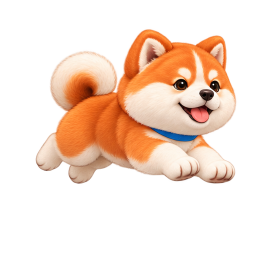
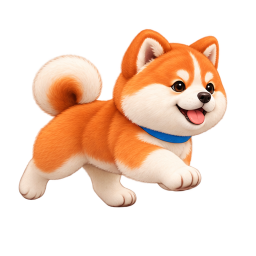
fix: remove near-static Akita running pose

Changed region(s): [[0.0625, 0.0938, 0.9375, 0.8125]]

diff --git a/tools/audit_animation.py b/tools/audit_animation.py
@@ -36,6 +36,11 @@ CHEST_SOURCE_BOX = (45, 120, 165, 220)
 MIN_TAIL_CHANGED_PIXELS = 500
 MIN_TAIL_CENTROID_DELTA_DP = 1.0
 MIN_TAIL_EDGE_SWEEP_DP = 1.5
+HIND_LEG_SOURCE_BOXES = {
+    "hind_leg_back": (12, 180, 90, 245),
+    "hind_leg_forward": (90, 180, 158, 245),
+}
+MIN_HIND_LEG_SILHOUETTE_CHANGE = 0.015
 CHANGE_THRESHOLD = 12
 
 _FONT = {
@@ -231,6 +236,46 @@ def _tail_metrics(state: str, frames: tuple[RenderedFrame, ...], size: int,
     }
 
 
+def _hind_leg_metrics(state: str, frames: tuple[RenderedFrame, ...],
+                      size: int) -> dict[str, object] | None:
+    """Check that both lower hind-leg silhouettes visibly change on each beat."""
+    if state != "running" or len(frames) < AKITA_FRAME_COUNTS["running"]:
+        return None
+
+    cycle = frames[:AKITA_FRAME_COUNTS["running"]]
+    legs: dict[str, object] = {}
+    for name, source_box in HIND_LEG_SOURCE_BOXES.items():
+        x0, y0, x1, y1 = _scaled_box(source_box, size)
+        region_pixels = (x1 - x0) * (y1 - y0)
+        transitions = []
+        for before, after in zip(cycle, (*cycle[1:], cycle[0])):
+            changed = 0
+            for y in range(y0, y1):
+                for x in range(x0, x1):
+                    offset = (y * size + x) * 4 + 3
+                    changed += (before.rgba[offset] > 128) != (after.rgba[offset] > 128)
+            transitions.append({
+                "from_frame": before.frame,
+                "to_frame": after.frame,
+                "changed_silhouette_pixels": changed,
+                "region_pixels": region_pixels,
+                "change_fraction": round(changed / region_pixels, 4),
+            })
+
+        slowest = min(transitions, key=lambda item: item["change_fraction"])
+        legs[name] = {
+            "minimum_change_fraction": MIN_HIND_LEG_SILHOUETTE_CHANGE,
+            "slowest_transition": slowest,
+            "passed": slowest["change_fraction"] >= MIN_HIND_LEG_SILHOUETTE_CHANGE,
+        }
+
+    return {
+        "measurement": "binary alpha silhouette change per lower hind-leg region",
+        "passed": all(leg["passed"] for leg in legs.values()),
+        "legs": legs,
+    }
+
+
 def _draw_text(canvas: bytearray, width: int, x: int, y: int, label: str) -> None:
     scale = 2
     color = (222, 228, 236, 255)
@@ -328,6 +373,7 @@ def render_audit(state: str, cycles: int = 1,
 
     frames = tuple(rendered)
     tail_metrics = _tail_metrics(state, frames, display_size, density)
+    hind_leg_metrics = _hind_leg_metrics(state, frames, display_size)
     report: dict[str, object] = {
         "renderer": "rgba_icon with premultiplied bilinear downsampling",
         "state": state,
@@ -347,6 +393,7 @@ def render_audit(state: str, cycles: int = 1,
         ],
         "transitions": transitions,
         "tail_motion": tail_metrics,
+        "hind_leg_motion": hind_leg_metrics,
         "contact_sheet": "contact-sheet.png",
     }
     return RenderAudit(report, frames, _contact_sheet(frames, display_size))
@@ -392,6 +439,7 @@ def main() -> int:
     result = render_audit(args.state, args.cycles, args.density)
     manifest = write_audit(result, args.output)
     tail = result.report["tail_motion"]
+    hind_legs = result.report["hind_leg_motion"]
     if isinstance(tail, dict):
         print(
             f"Tail motion at {result.report['display_size_px']}px: "
@@ -401,9 +449,21 @@ def main() -> int:
             f"chest changes {tail['chest_changed_pixels_at_display_size']} pixels; "
             f"{'PASS' if tail['passed'] else 'FAIL'}"
         )
+    if isinstance(hind_legs, dict):
+        legs = hind_legs["legs"]
+        summary = ", ".join(
+            f"{name} {leg['slowest_transition']['change_fraction']:.1%}"
+            for name, leg in legs.items()
+        )
+        print(
+            f"Hind-leg silhouette at {result.report['display_size_px']}px: "
+            f"{summary}; minimum {MIN_HIND_LEG_SILHOUETTE_CHANGE:.1%}; "
+            f"{'PASS' if hind_legs['passed'] else 'FAIL'}"
+        )
     print(f"Rendered {result.report['frame_count']} frames over "
           f"{result.report['duration_seconds']}s to {manifest.parent}")
-    if isinstance(tail, dict) and not tail["passed"]:
+    if ((isinstance(tail, dict) and not tail["passed"])
+            or (isinstance(hind_legs, dict) and not hind_legs["passed"])):
         return 1
     return 0
 

diff --git a/tests/test_animation_audit.py b/tests/test_animation_audit.py
@@ -54,6 +54,20 @@ class AnimationAuditTests(unittest.TestCase):
         self.assertIsInstance(tail, dict)
         self.assertTrue(tail["passed"])
 
+    def test_running_keeps_both_hind_leg_silhouettes_moving_each_beat(self) -> None:
+        result = render_audit("running", cycles=2, density=3)
+        hind_legs = result.report["hind_leg_motion"]
+        preview = _timeline("running", cycles=2)
+
+        self.assertIsInstance(hind_legs, dict)
+        self.assertTrue(hind_legs["passed"], hind_legs)
+        self.assertEqual(result.report["frame_count"], 10)
+        self.assertEqual(result.report["duration_seconds"], 1.0)
+        self.assertEqual(
+            [frame.frame for frame in result.frames],
+            [frame["frame"] for frame in preview],
+        )
+
     def test_audit_writes_a_contact_sheet_and_frame_manifest(self) -> None:
         result = render_audit("idle", cycles=1, density=3)
         with tempfile.TemporaryDirectory() as directory:

diff --git a/codex_pet/art.py b/codex_pet/art.py
@@ -161,7 +161,8 @@ AKITA_READY_SEQUENCE = (
 AKITA_READY_LOOP_START = 5
 AKITA_FRAME_COUNTS = {
     "idle": 8,
-    "running": 6,
+    # The nearly duplicate airborne pose that hid one hind leg is omitted.
+    "running": 5,
     "needs_input": 4,
     "ready": len(AKITA_READY_SEQUENCE),
     "blocked": 4,
@@ -169,7 +170,7 @@ AKITA_FRAME_COUNTS = {
 AKITA_FRAME_INTERVALS = {
     # Slow breath, one quick blink, then a quiet pause before the next loop.
     "idle": (0.6, 0.08, 0.08, 0.08, 0.6, 0.6, 0.6, 0.6),
-    "running": (0.1,) * 6,
+    "running": (0.1,) * 5,
     # A small wave with a longer hold at the raised paw.
     "needs_input": (0.2, 0.18, 0.18, 0.85),
     # Let the entry hop breathe; the loop uses only subtle breathing and a slow blink.

diff --git a/tests/test_art.py b/tests/test_art.py
@@ -122,7 +122,8 @@ class AkitaArtTests(unittest.TestCase):
         self.assertEqual(animation_interval("akita", "needs_input", 3), 0.85)
         self.assertEqual(advance_animation("akita", "idle", 5), 6)
         self.assertEqual(advance_animation("akita", "idle", 7), 0)
-        self.assertEqual(advance_animation("akita", "running", 5), 0)
+        self.assertEqual(AKITA_FRAME_COUNTS["running"], 5)
+        self.assertEqual(advance_animation("akita", "running", 4), 0)
         self.assertEqual(advance_animation("akita", "needs_input", 3), 0)
 
     def test_idle_tail_wag_is_more_visible_without_moving_the_chest(self) -> None:

diff --git a/docs/architecture.md b/docs/architecture.md
@@ -27,7 +27,7 @@ The two `bin` scripts add the checkout to `sys.path`; the installed CLI entries 
 - **Fail open at the hook boundary.** `codex-pet-event` reads at most 64 KiB of hook JSON, tolerates missing fields, exits successfully on Pet failure, and never changes a Codex permission or execution decision. It attempts a short socket request, starts a missing daemon under `start.lock`, retries, then falls back to a notification for needs-input/ready. Keep hook work bounded.
 - **One daemon.** `daemon.lock` prevents duplicates; `start.lock` serializes simultaneous hook starts. The daemon removes a stale socket before bind and removes its own socket on shutdown. Requests and replies are one newline-terminated JSON object, capped at 64 KiB. IPC actions are `event`, `status`, `reconnect`, `set_appearance`, and `stop`.
 - **Session state follows observed lifecycle signals.** `SessionStore` holds a map keyed by `session_id`; `SessionEnd` deletes one entry. User-facing states use the official Pet names `needs_input`, `blocked`, `ready`, and `running`, with `idle` when no activity is active. Selection priority is needs input, blocked, ready, running, idle. `PostToolUse` returns a same-turn permission request to running; `Stop` sets ready, which stays until a later event changes that session or `SessionEnd` removes it. Tapping the icon does not alter session state. Turn IDs reject late events from superseded turns. `SessionStart` from compaction is ignored because it occurs during active work; `Interrupt` returns the session to idle. The hook API does not report final turn success/failure or unread state, so hooks never infer `blocked`; that state is currently available only to explicit/test events. The selected appearance and dragged position share `~/.config/codex-pet/config.json`; Akita is the default and the original robot remains selectable.
-- **GUI belongs to its worker thread.** Daemon events and appearance changes wake `GuiWorker` through a socketpair; native Termux:GUI calls stay in that worker. The animation clock uses per-appearance, per-state frame timing and monotonic deadlines, keeping render time and touch events from accumulating frame drift; late frames are skipped instead of replayed in a burst. The Akita loops idle, running, and needs-input frames; Idle and the Ready loop include two wider tail-sway poses. Ready uses a grounded crouch before one relaxed hop on entry, then loops slow breathing with a face-only blink. The loop does not reuse airborne jump poses. The blink composites the closed-eye area over one stable body frame so the chest does not shift with the eye pose. Blocked plays a short sequence once and holds the final frame. The robot keeps its existing animation. Akita frames are cached as RGBA pixels and sent through one shared Termux:GUI image buffer; if the buffer is unavailable, the worker falls back to PNG image updates. On GUI disconnect, the worker logs, reports unavailability, and reconnects with backoff; the daemon can send a deduplicated Android notification for needs-input/ready while the GUI is unavailable.
+- **GUI belongs to its worker thread.** Daemon events and appearance changes wake `GuiWorker` through a socketpair; native Termux:GUI calls stay in that worker. The animation clock uses per-appearance, per-state frame timing and monotonic deadlines, keeping render time and touch events from accumulating frame drift; late frames are skipped instead of replayed in a burst. The Akita loops idle, running, and needs-input frames; its five-pose running loop omits an airborne pose that left one hind-leg silhouette nearly still. Idle and the Ready loop include two wider tail-sway poses. Ready uses a grounded crouch before one relaxed hop on entry, then loops slow breathing with a face-only blink. The loop does not reuse airborne jump poses. The blink composites the closed-eye area over one stable body frame so the chest does not shift with the eye pose. Blocked plays a short sequence once and holds the final frame. The robot keeps its existing animation. Akita frames are cached as RGBA pixels and sent through one shared Termux:GUI image buffer; if the buffer is unavailable, the worker falls back to PNG image updates. On GUI disconnect, the worker logs, reports unavailability, and reconnects with backoff; the daemon can send a deduplicated Android notification for needs-input/ready while the GUI is unavailable.
 - **User configuration is merged.** The installer chooses inline `config.toml` hooks when the existing config has event matcher groups; Codex's `hooks.state` metadata alone does not select inline mode. Otherwise it uses `hooks.json`. It records its choice and created entries in `~/.config/codex-pet/install.json` so uninstall can remove its own hooks. Back up any changed user file and preserve unrelated hooks and settings.
 
 ## Overlay and touch details
@@ -51,4 +51,4 @@ Current automated tests under `tests/` cover GUI touch, native binding calls, an
 
 For a live diagnostic, `codex-pet status` shows process and GUI health. From this checkout, `python -c 'from codex_pet.runtime import request; print(request({"action": "status"})["overlay"])'` also shows logical position and touch count. `codex-pet test` checks displayed states most strictly when it is the only session; another active session can win the priority selection, so end or isolate other sessions before judging the visual sequence.
 
-For screenshot-free visual and motion checks, run `python tools/audit_animation.py --state ready --cycles 2`. It renders the production `rgba_icon()` buffer at the 64 dp overlay size (3× density by default), writes a labeled contact sheet plus individual frames, and records frame hashes, delays, transition pixel changes, tail movement, and chest stability in `audit.json`. Set `--density` to match another device. This checks the production frame pixels and schedule after display-size scaling; it does not claim to reproduce Android's exact image-filtering implementation.
+For screenshot-free visual and motion checks, run `python tools/audit_animation.py --state ready --cycles 2` or `python tools/audit_animation.py --state running --cycles 2`. It renders the production `rgba_icon()` buffer at the 64 dp overlay size (3× density by default), writes a labeled contact sheet plus individual frames, and records frame hashes, delays, transition pixel changes, tail movement, chest stability, and (for running) hind-leg silhouette activity in `audit.json`. Set `--density` to match another device. This checks the production frame pixels and schedule after display-size scaling; it does not claim to reproduce Android's exact image-filtering implementation.

diff --git a/README.md b/README.md
@@ -37,12 +37,12 @@ codex-pet pet use akita
 codex-pet pet use robot
 ```
 
-The Pet is a single, roughly 64 dp floating icon. The Akita uses high-resolution, transparent 256 × 256 PNG frames in a cheerful style: a large round cream face, bright orange-red crown with a pale blaze, small upright ears, and an open smile above a compact body. Idle breathes, blinks, and slowly sways its tail through a wider arc; Running loops a lively small run; Needs input gives a gentle paw wave. Ready crouches slightly before one relaxed happy hop on entry, then loops slow breathing, a slow face-only blink, and a gentle tail sway. Blocked plays a short thoughtful head tilt and rests on its final pose. A steady animation clock keeps frame timing consistent while touch events are handled. The original robot remains selectable and animated. `codex-pet pet list` shows the catalog and current choice; `codex-pet pet use <id>` switches to any listed appearance. The choice is saved alongside the overlay position in `~/.config/codex-pet/config.json` and changes the live overlay when the daemon is running. Tapping has no action. To move the Pet, drag from anywhere on the icon; it follows your finger after about 6 dp of movement.
+The Pet is a single, roughly 64 dp floating icon. The Akita uses high-resolution, transparent 256 × 256 PNG frames in a cheerful style: a large round cream face, bright orange-red crown with a pale blaze, small upright ears, and an open smile above a compact body. Idle breathes, blinks, and slowly sways its tail through a wider arc; Running loops a compact gallop with both hind legs visibly alternating; Needs input gives a gentle paw wave. Ready crouches slightly before one relaxed happy hop on entry, then loops slow breathing, a slow face-only blink, and a gentle tail sway. Blocked plays a short thoughtful head tilt and rests on its final pose. A steady animation clock keeps frame timing consistent while touch events are handled. The original robot remains selectable and animated. `codex-pet pet list` shows the catalog and current choice; `codex-pet pet use <id>` switches to any listed appearance. The choice is saved alongside the overlay position in `~/.config/codex-pet/config.json` and changes the live overlay when the daemon is running. Tapping has no action. To move the Pet, drag from anywhere on the icon; it follows your finger after about 6 dp of movement.
 
 | State | What you see | When it changes |
 | --- | --- | --- |
 | Idle | Slow breath, occasional blink, and a gentle tail sway | Session starts, ends, or its turn is interrupted |
-| Running | Small running loop; a count badge appears with multiple active sessions | You submit a prompt or Codex resumes after a tool call |
+| Running | Compact gallop with visible hind-leg alternation; a count badge appears with multiple active sessions | You submit a prompt or Codex resumes after a tool call |
 | Needs input | Gentle raised-paw wave | Codex requests tool permission |
 | Ready | A slight crouch and one relaxed hop on entry, then slow breathing, a slow face-only blink, and a gentle tail sway | The turn stops; remains until a later event changes its state or the session ends |
 | Blocked | Brief thoughtful head tilt, then a resting pose | Demo state only; hooks do not receive a definitive failed-turn event |

diff --git a/README.zh-CN.md b/README.zh-CN.md
@@ -37,12 +37,12 @@ codex-pet pet use akita
 codex-pet pet use robot
 ```
 
-Pet 是一个约 64dp 的悬浮形象。默认秋田犬采用透明的 256 × 256 高清 PNG 帧：奶油白圆脸、明亮橘红额顶和浅色额心、短立耳、张嘴露舌的笑脸，以及紧凑的身体。待机时缓慢呼吸、偶尔眨眼，并以更明显但舒缓的幅度摆尾；运行时循环小跑；需要输入时轻轻挥爪；就绪时先轻轻蹲身蓄力，再开心跃起一次，之后缓慢呼吸、慢慢眨眼并轻轻摆尾；受阻时短暂歪头，然后停在思考姿势。经典机器人仍可切换，并保留原有动画。运行 `codex-pet pet list` 查看已支持形象和当前选择，用 `codex-pet pet use <id>` 切换到列表中的任一形象，例如 `codex-pet pet use robot`。选择与悬浮位置一起保存在 `~/.config/codex-pet/config.json`；daemon 正在运行时会立即切换。点击没有操作；如需移动，从 Pet 图标的任意位置拖动即可，移动约 6dp 后就会跟随手指。
+Pet 是一个约 64dp 的悬浮形象。默认秋田犬采用透明的 256 × 256 高清 PNG 帧：奶油白圆脸、明亮橘红额顶和浅色额心、短立耳、张嘴露舌的笑脸，以及紧凑的身体。待机时缓慢呼吸、偶尔眨眼，并以更明显但舒缓的幅度摆尾；运行时循环小跑，两条后腿交替迈步；需要输入时轻轻挥爪；就绪时先轻轻蹲身蓄力，再开心跃起一次，之后缓慢呼吸、慢慢眨眼并轻轻摆尾；受阻时短暂歪头，然后停在思考姿势。经典机器人仍可切换，并保留原有动画。运行 `codex-pet pet list` 查看已支持形象和当前选择，用 `codex-pet pet use <id>` 切换到列表中的任一形象，例如 `codex-pet pet use robot`。选择与悬浮位置一起保存在 `~/.config/codex-pet/config.json`；daemon 正在运行时会立即切换。点击没有操作；如需移动，从 Pet 图标的任意位置拖动即可，移动约 6dp 后就会跟随手指。
 
 | 状态 | 显示内容 | 触发与持续时间 |
 | --- | --- | --- |
 | Idle | 缓慢呼吸、偶尔眨眼，并舒缓地摆尾 | 会话开始、结束或当前回合被中断 |
-| Running | 循环小跑；多个活动会话时显示数量徽标 | 提交 prompt，或 Codex 在工具调用后继续 |
+| Running | 循环小跑，两条后腿交替迈步；多个活动会话时显示数量徽标 | 提交 prompt，或 Codex 在工具调用后继续 |
 | Needs input | 轻轻挥爪提醒 | Codex 请求工具权限 |
 | Ready | 进入时轻蹲蓄力并开心跃起一次，之后循环呼吸、慢慢眨眼并轻轻摆尾 | 当前回合停止；后续事件改变状态或会话结束后清除 |
 | Blocked | 短暂歪头，然后停在思考姿势 | 仅演示状态；hooks 不会收到明确的回合失败事件 |
